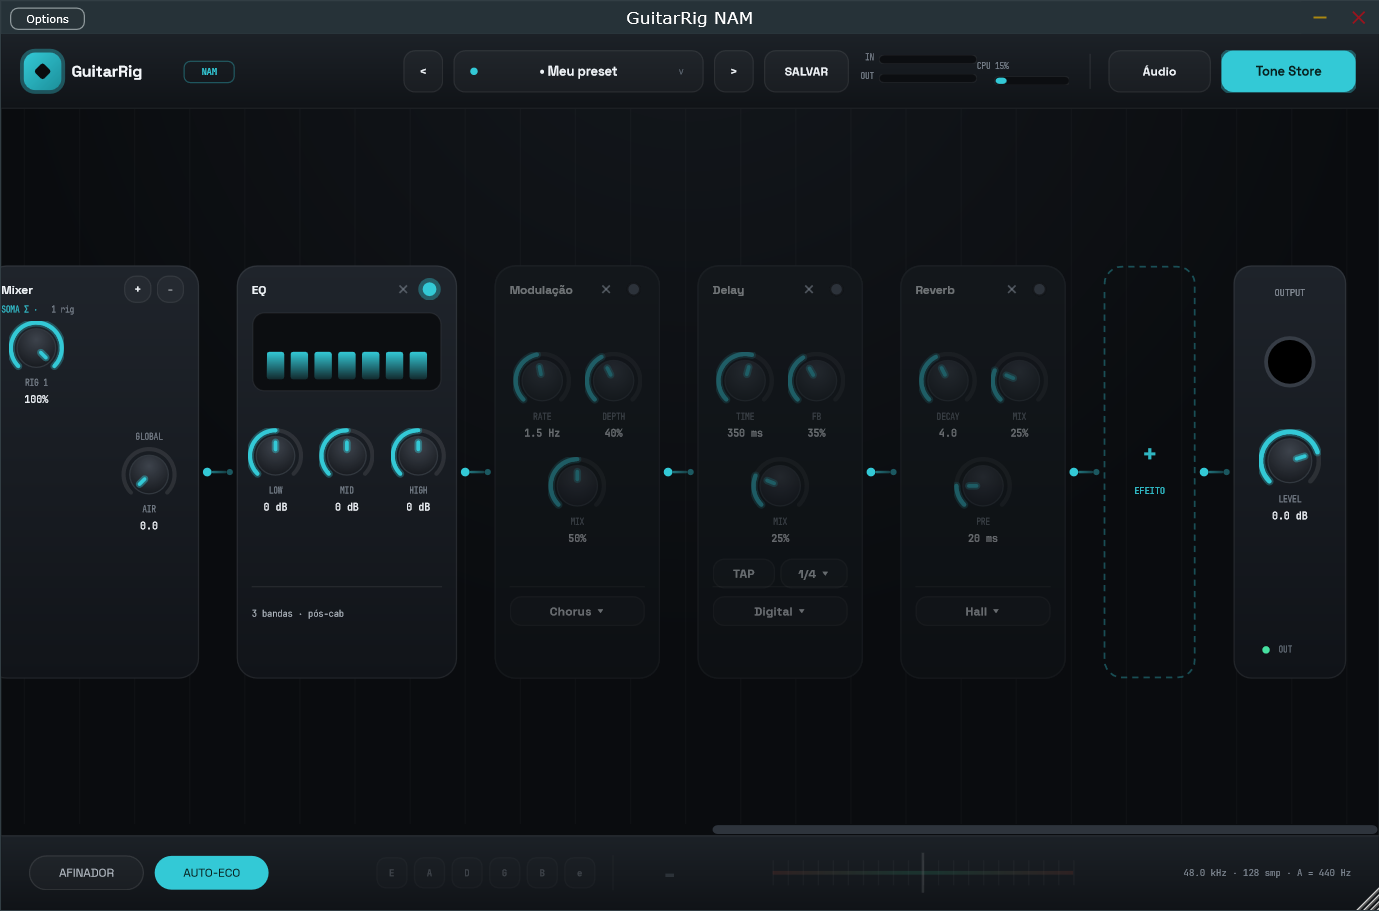
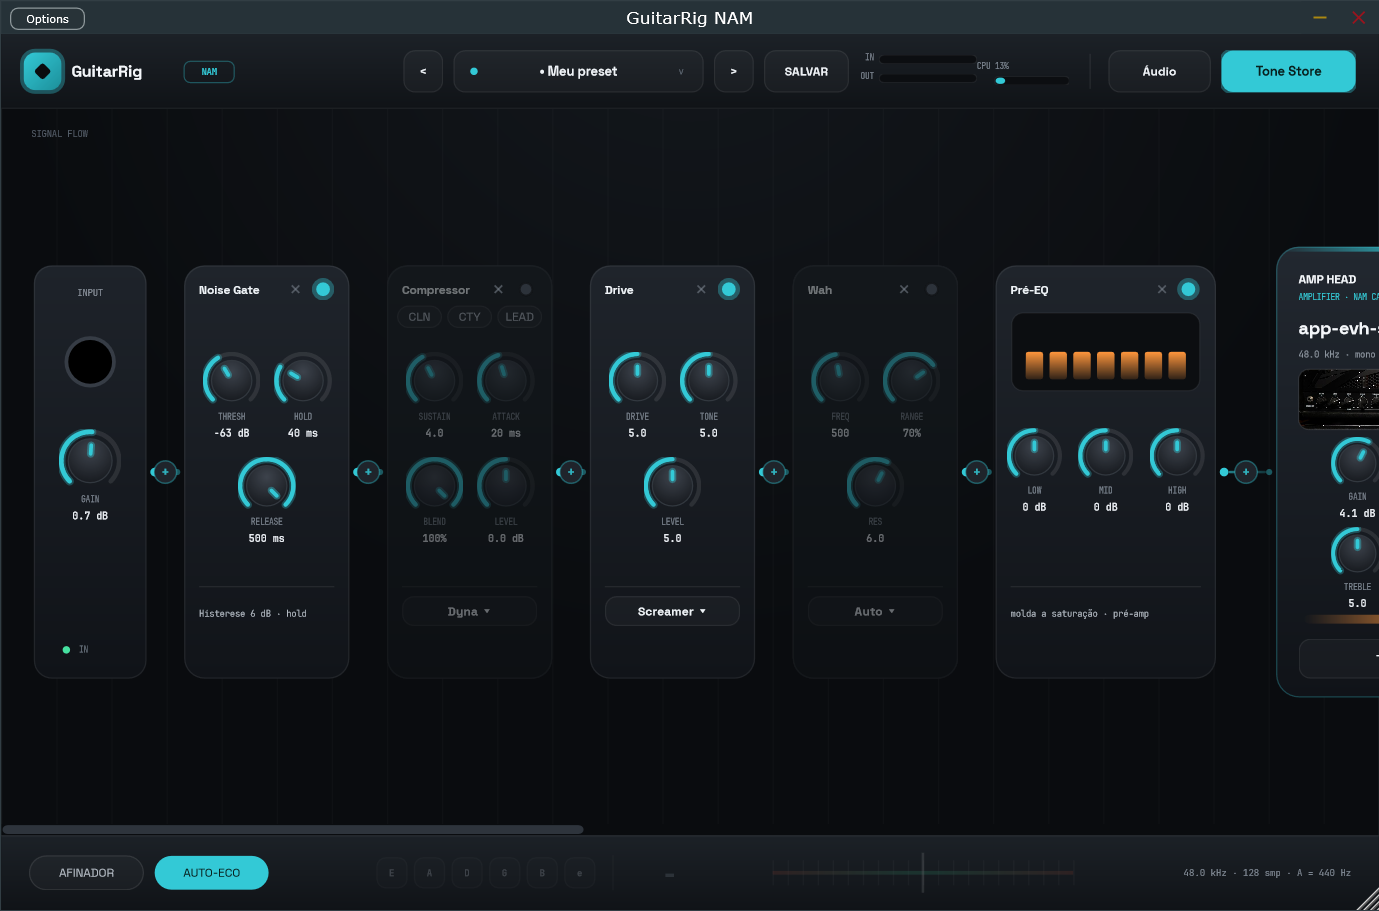
Gaveta: "+" em cada conector insere efeito naquela posicao
Pedido do usuario: so o botao no fim da cadeia nao bastava. Cada
conector entre cards agora tem um "+" circular que abre a gaveta por
categorias e insere o efeito EXATAMENTE naquele ponto da cadeia
(showAddFxMenu ganhou insertIndex; o botao do fim continua inserindo
na posicao canonica). Menu ancora no ponto clicado.

Validado com cliques reais: Wah adicionado pelo "+" entre Drive e
Pre-EQ entrou exatamente ali.

diff --git a/src/PluginEditor.cpp b/src/PluginEditor.cpp
@@ -940,7 +940,25 @@ juce::String ChainView::fxDisplayName (const juce::String& id)
     return id;
 }
 
-void ChainView::showAddFxMenu()
+std::vector<std::pair<juce::Rectangle<int>, int>> ChainView::insertSpots() const
+{
+    // um "+" no meio de cada conector: inserir ANTES do card i = índice i
+    std::vector<std::pair<juce::Rectangle<int>, int>> spots;
+    juce::Rectangle<int> prev = ioInB;
+    const auto entries = orderedEntries();
+    for (int i = 0; i < (int) entries.size(); ++i)
+    {
+        const auto& box = entries[(size_t) i].box;
+        if (box.isEmpty())
+            continue;
+        const int midX = (prev.getRight() + box.getX()) / 2;
+        spots.push_back ({ juce::Rectangle<int> (midX - 11, chainHeight / 2 - 11, 22, 22), i });
+        prev = box;
+    }
+    return spots;
+}
+
+void ChainView::showAddFxMenu (int insertIndex, juce::Rectangle<int> targetArea)
 {
     struct Category { const char* title; std::initializer_list<const char*> ids; };
     static const Category categories[] = {
@@ -980,25 +998,34 @@ void ChainView::showAddFxMenu()
 
     menu.showMenuAsync (
         juce::PopupMenu::Options().withTargetScreenArea (
-            juce::Rectangle<int> (addFxB.getX(), addFxB.getY(), addFxB.getWidth(), 1)
-                .withPosition (localPointToGlobal (addFxB.getPosition()))),
-        [safe = juce::Component::SafePointer<ChainView> (this)] (int result)
+            juce::Rectangle<int> (targetArea.getWidth(), 1)
+                .withPosition (localPointToGlobal (targetArea.getPosition()))),
+        [safe = juce::Component::SafePointer<ChainView> (this), insertIndex] (int result)
         {
             if (safe == nullptr || result <= 0 || result >= 99999)
                 return;
             const auto id = GuitarRigNAMProcessor::fxToString (
                 (GuitarRigNAMProcessor::ChainFx) (result - 1));
 
-            // insere na posição canônica (dá para arrastar depois)
             auto order = safe->processor.getChainOrder();
-            const int rank = GuitarRigNAMProcessor::canonicalRank (id);
-            int pos = order.size();
-            for (int i = 0; i < order.size(); ++i)
-                if (GuitarRigNAMProcessor::canonicalRank (order[i]) > rank)
-                {
-                    pos = i;
-                    break;
-                }
+            int pos;
+            if (insertIndex >= 0)
+            {
+                // "+" do conector: entra exatamente onde foi clicado
+                pos = juce::jlimit (0, order.size(), insertIndex);
+            }
+            else
+            {
+                // botão do fim: posição canônica (dá para arrastar depois)
+                const int rank = GuitarRigNAMProcessor::canonicalRank (id);
+                pos = order.size();
+                for (int i = 0; i < order.size(); ++i)
+                    if (GuitarRigNAMProcessor::canonicalRank (order[i]) > rank)
+                    {
+                        pos = i;
+                        break;
+                    }
+            }
             order.insert (pos, id);
             safe->processor.setChainOrder (order);
         });
@@ -1019,12 +1046,20 @@ void ChainView::mouseDown (const juce::MouseEvent& e)
     draggingId.clear();
     panning = false;
 
-    // botão "+ EFEITO"
+    // botão "+ EFEITO" (fim da cadeia)
     if (addFxB.contains (e.getPosition()))
     {
-        showAddFxMenu();
+        showAddFxMenu (-1, addFxB);
         return;
     }
+
+    // "+" dos conectores: adiciona efeito NAQUELA posição
+    for (const auto& [rect, idx] : insertSpots())
+        if (rect.contains (e.getPosition()))
+        {
+            showAddFxMenu (idx, rect);
+            return;
+        }
 
     // "✕" remove o efeito da cadeia (volta pra gaveta, ajustes preservados)
     for (const auto& entry : orderedEntries())
@@ -2060,6 +2095,19 @@ void ChainView::paint (juce::Graphics& g)
         g.setColour (ui::textFaint.withAlpha (0.55f));
         g.drawLine (h.getX() + 4.0f, h.getY() + 4.0f, h.getRight() - 4.0f, h.getBottom() - 4.0f, 1.4f);
         g.drawLine (h.getRight() - 4.0f, h.getY() + 4.0f, h.getX() + 4.0f, h.getBottom() - 4.0f, 1.4f);
+    }
+
+    // ---- "+" nos conectores (inserir efeito naquela posição)
+    for (const auto& [rect, idx] : insertSpots())
+    {
+        auto rf = rect.toFloat().reduced (2.0f);
+        g.setColour (ui::cardTop);
+        g.fillEllipse (rf);
+        g.setColour (ui::accent.withAlpha (0.4f));
+        g.drawEllipse (rf, 1.2f);
+        g.setColour (ui::accent.withAlpha (0.85f));
+        g.setFont (ui::uiFont (14.0f, true));
+        g.drawText ("+", rect, juce::Justification::centred);
     }
 
     // ---- botão "+ EFEITO" (gaveta)

diff --git a/src/PluginEditor.h b/src/PluginEditor.h
@@ -133,8 +133,11 @@ private:
 
     // gaveta de efeitos: a cadeia mostra só o que está em uso
     juce::Rectangle<int> addFxB;     // botão "+ EFEITO" no fim da cadeia
-    void showAddFxMenu();
+    /// insertIndex >= 0 insere na posição exata; -1 = posição canônica
+    void showAddFxMenu (int insertIndex, juce::Rectangle<int> targetArea);
     void removeFxFromChain (const juce::String& id);
+    /// "+" nos conectores entre cards: {hotspot, índice de inserção}
+    std::vector<std::pair<juce::Rectangle<int>, int>> insertSpots() const;
     juce::Array<juce::Component*> componentsForFx (const juce::String& id);
     const char* onParamIdForFx (const juce::String& id) const;
     static juce::String fxDisplayName (const juce::String& id);

diff --git a/README.md b/README.md
@@ -144,7 +144,7 @@ Dados do usuário (fora do repo): `Documentos\GuitarRig NAM\` — `Captures/`, `
 - [x] Slot VST3: botão CARREGAR virou menu com os plugins instalados no sistema + tabela de grátis recomendados em docs/EFEITOS.md
 
 **Fase 13 — UX: gaveta de efeitos + navegação (concluída):**
-- [x] A cadeia mostra **só os efeitos em uso**; o botão tracejado **`+ EFEITO`** abre a gaveta por categorias (Dinâmica · Drive & Filtro · Pitch · Modulação & Cor · Ambiência · Extras) e insere na posição musicalmente certa
+- [x] A cadeia mostra **só os efeitos em uso**; **`+` em cada conector** adiciona um efeito naquela posição exata, e o botão tracejado **`+ EFEITO`** no fim insere na posição musicalmente certa — ambos abrem a gaveta por categorias (Dinâmica · Drive & Filtro · Pitch · Modulação & Cor · Ambiência · Extras)
 - [x] **✕** em cada card devolve o efeito pra gaveta (ajustes preservados); presets salvam a pedaleira montada
 - [x] Cards **desligados ficam esmaecidos** — o olho acha na hora o que está soando
 - [x] **Roda do mouse rola a cadeia** e **arrastar o fundo faz pan** (mãozinha), como numa DAW
